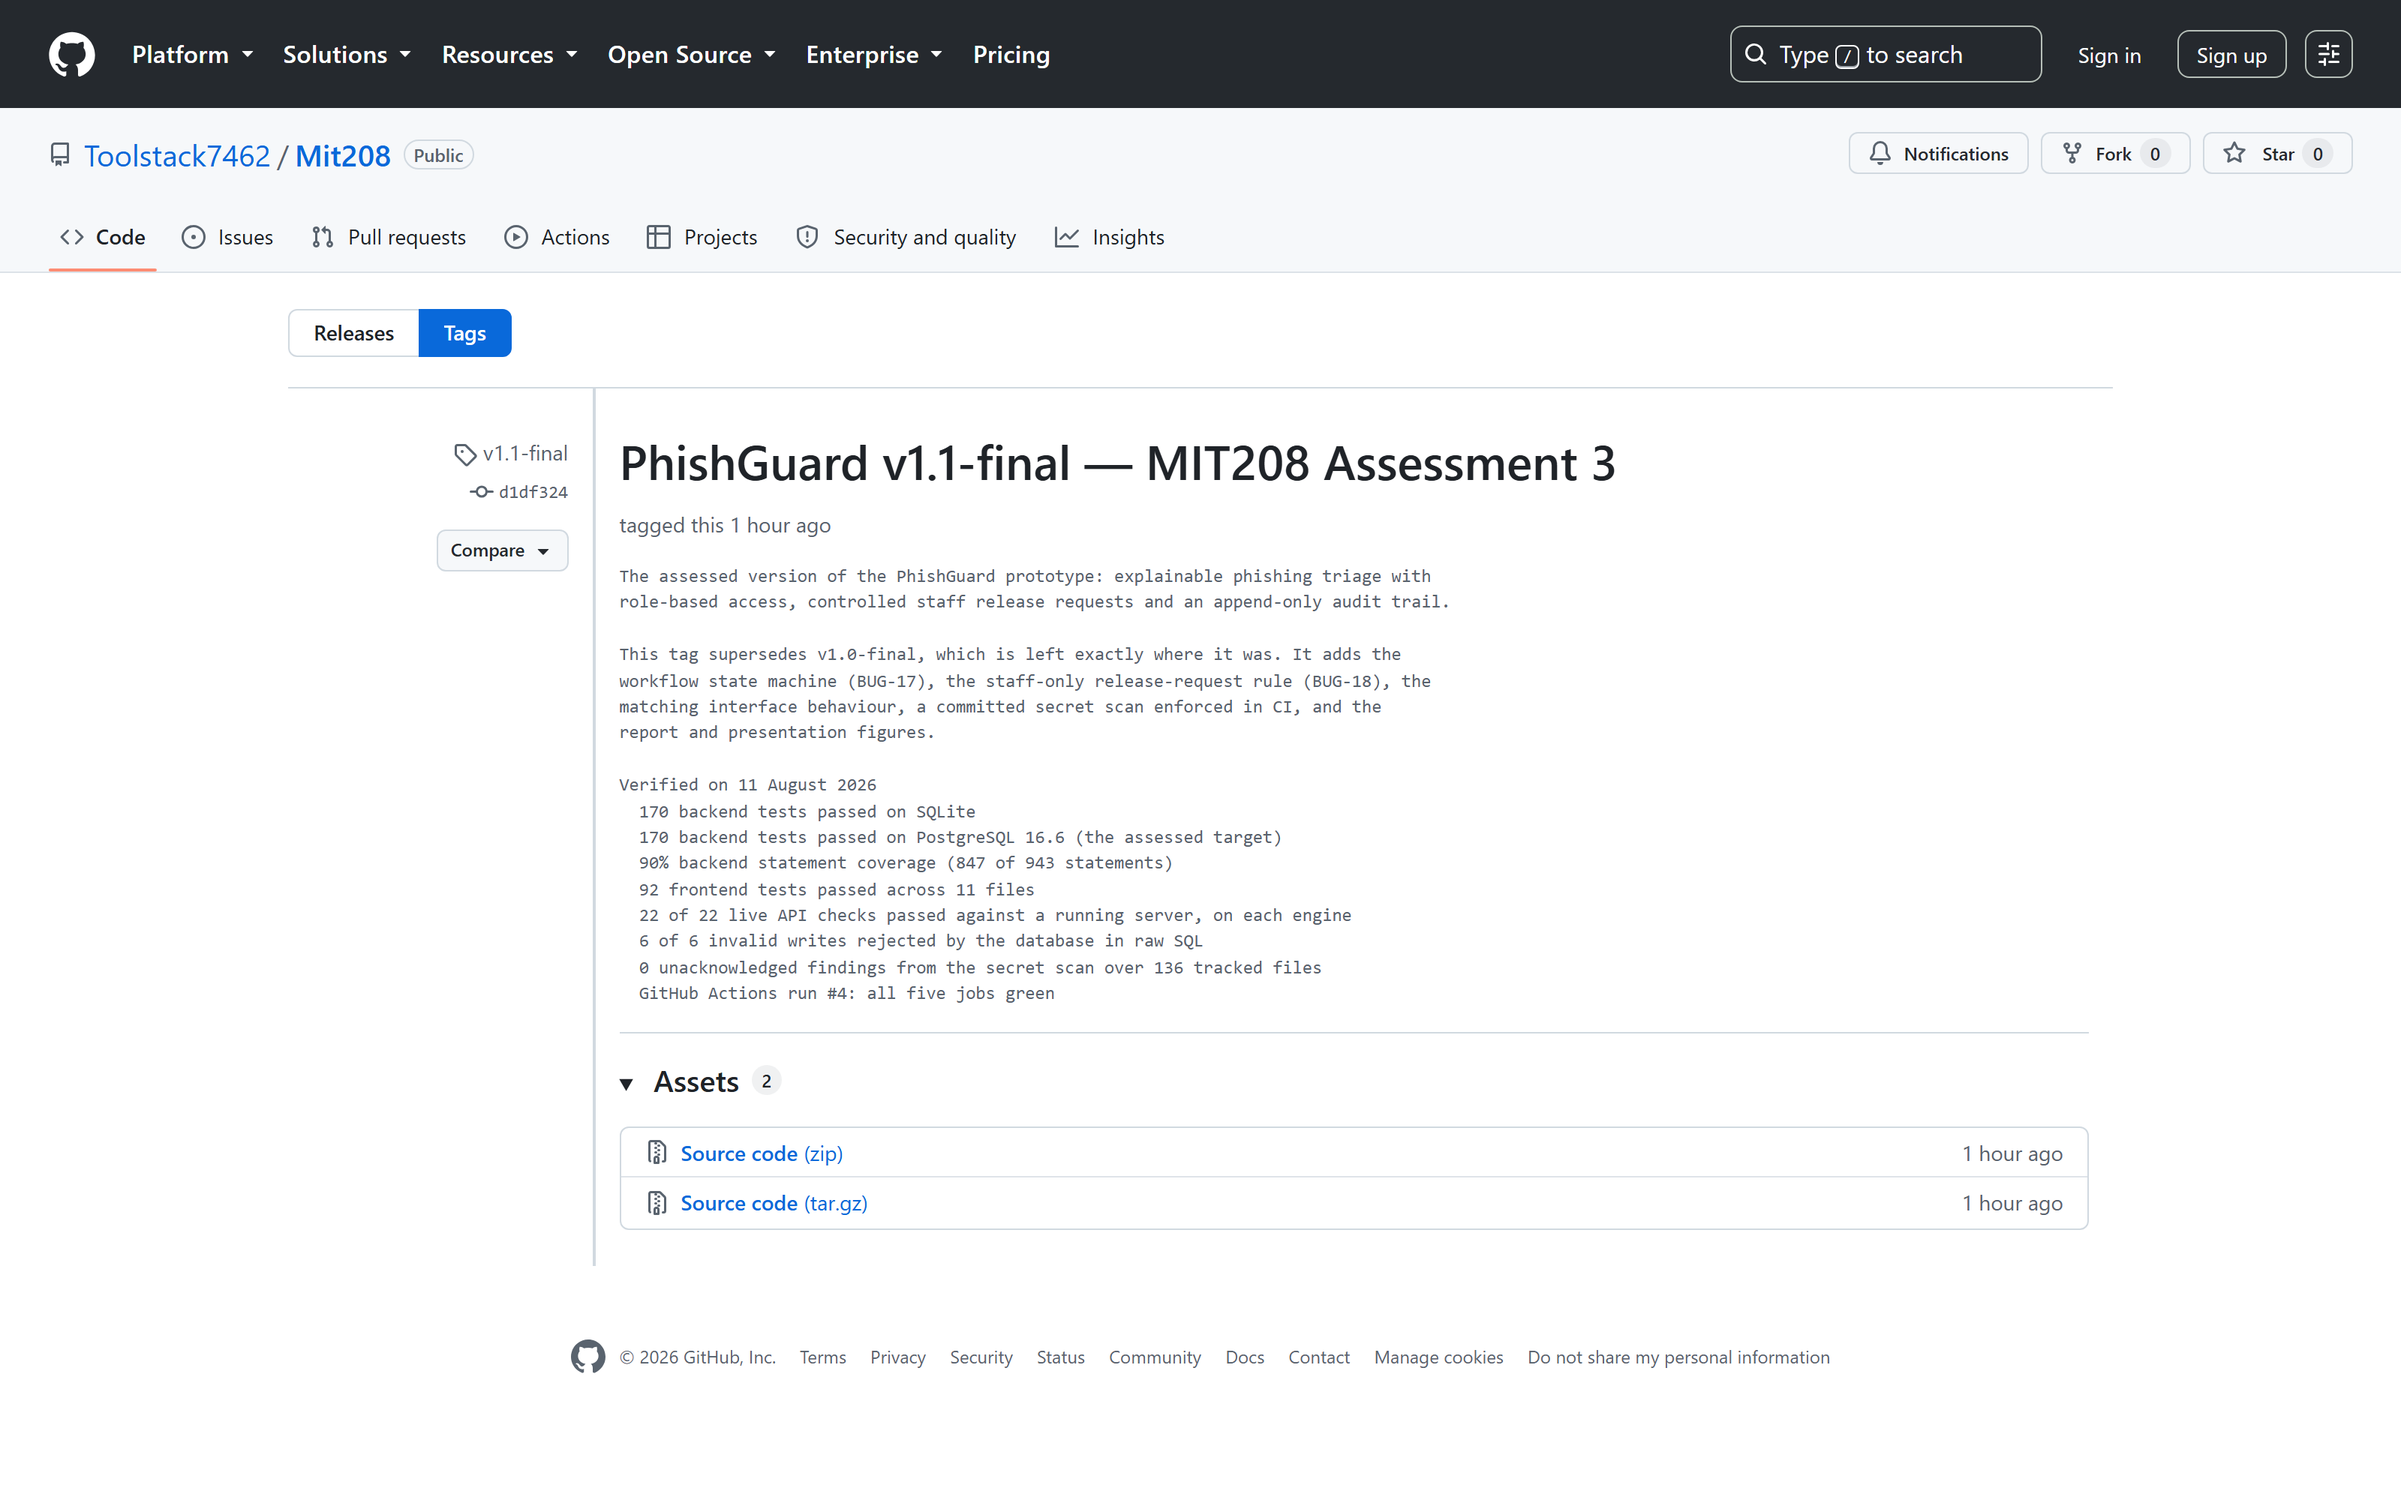
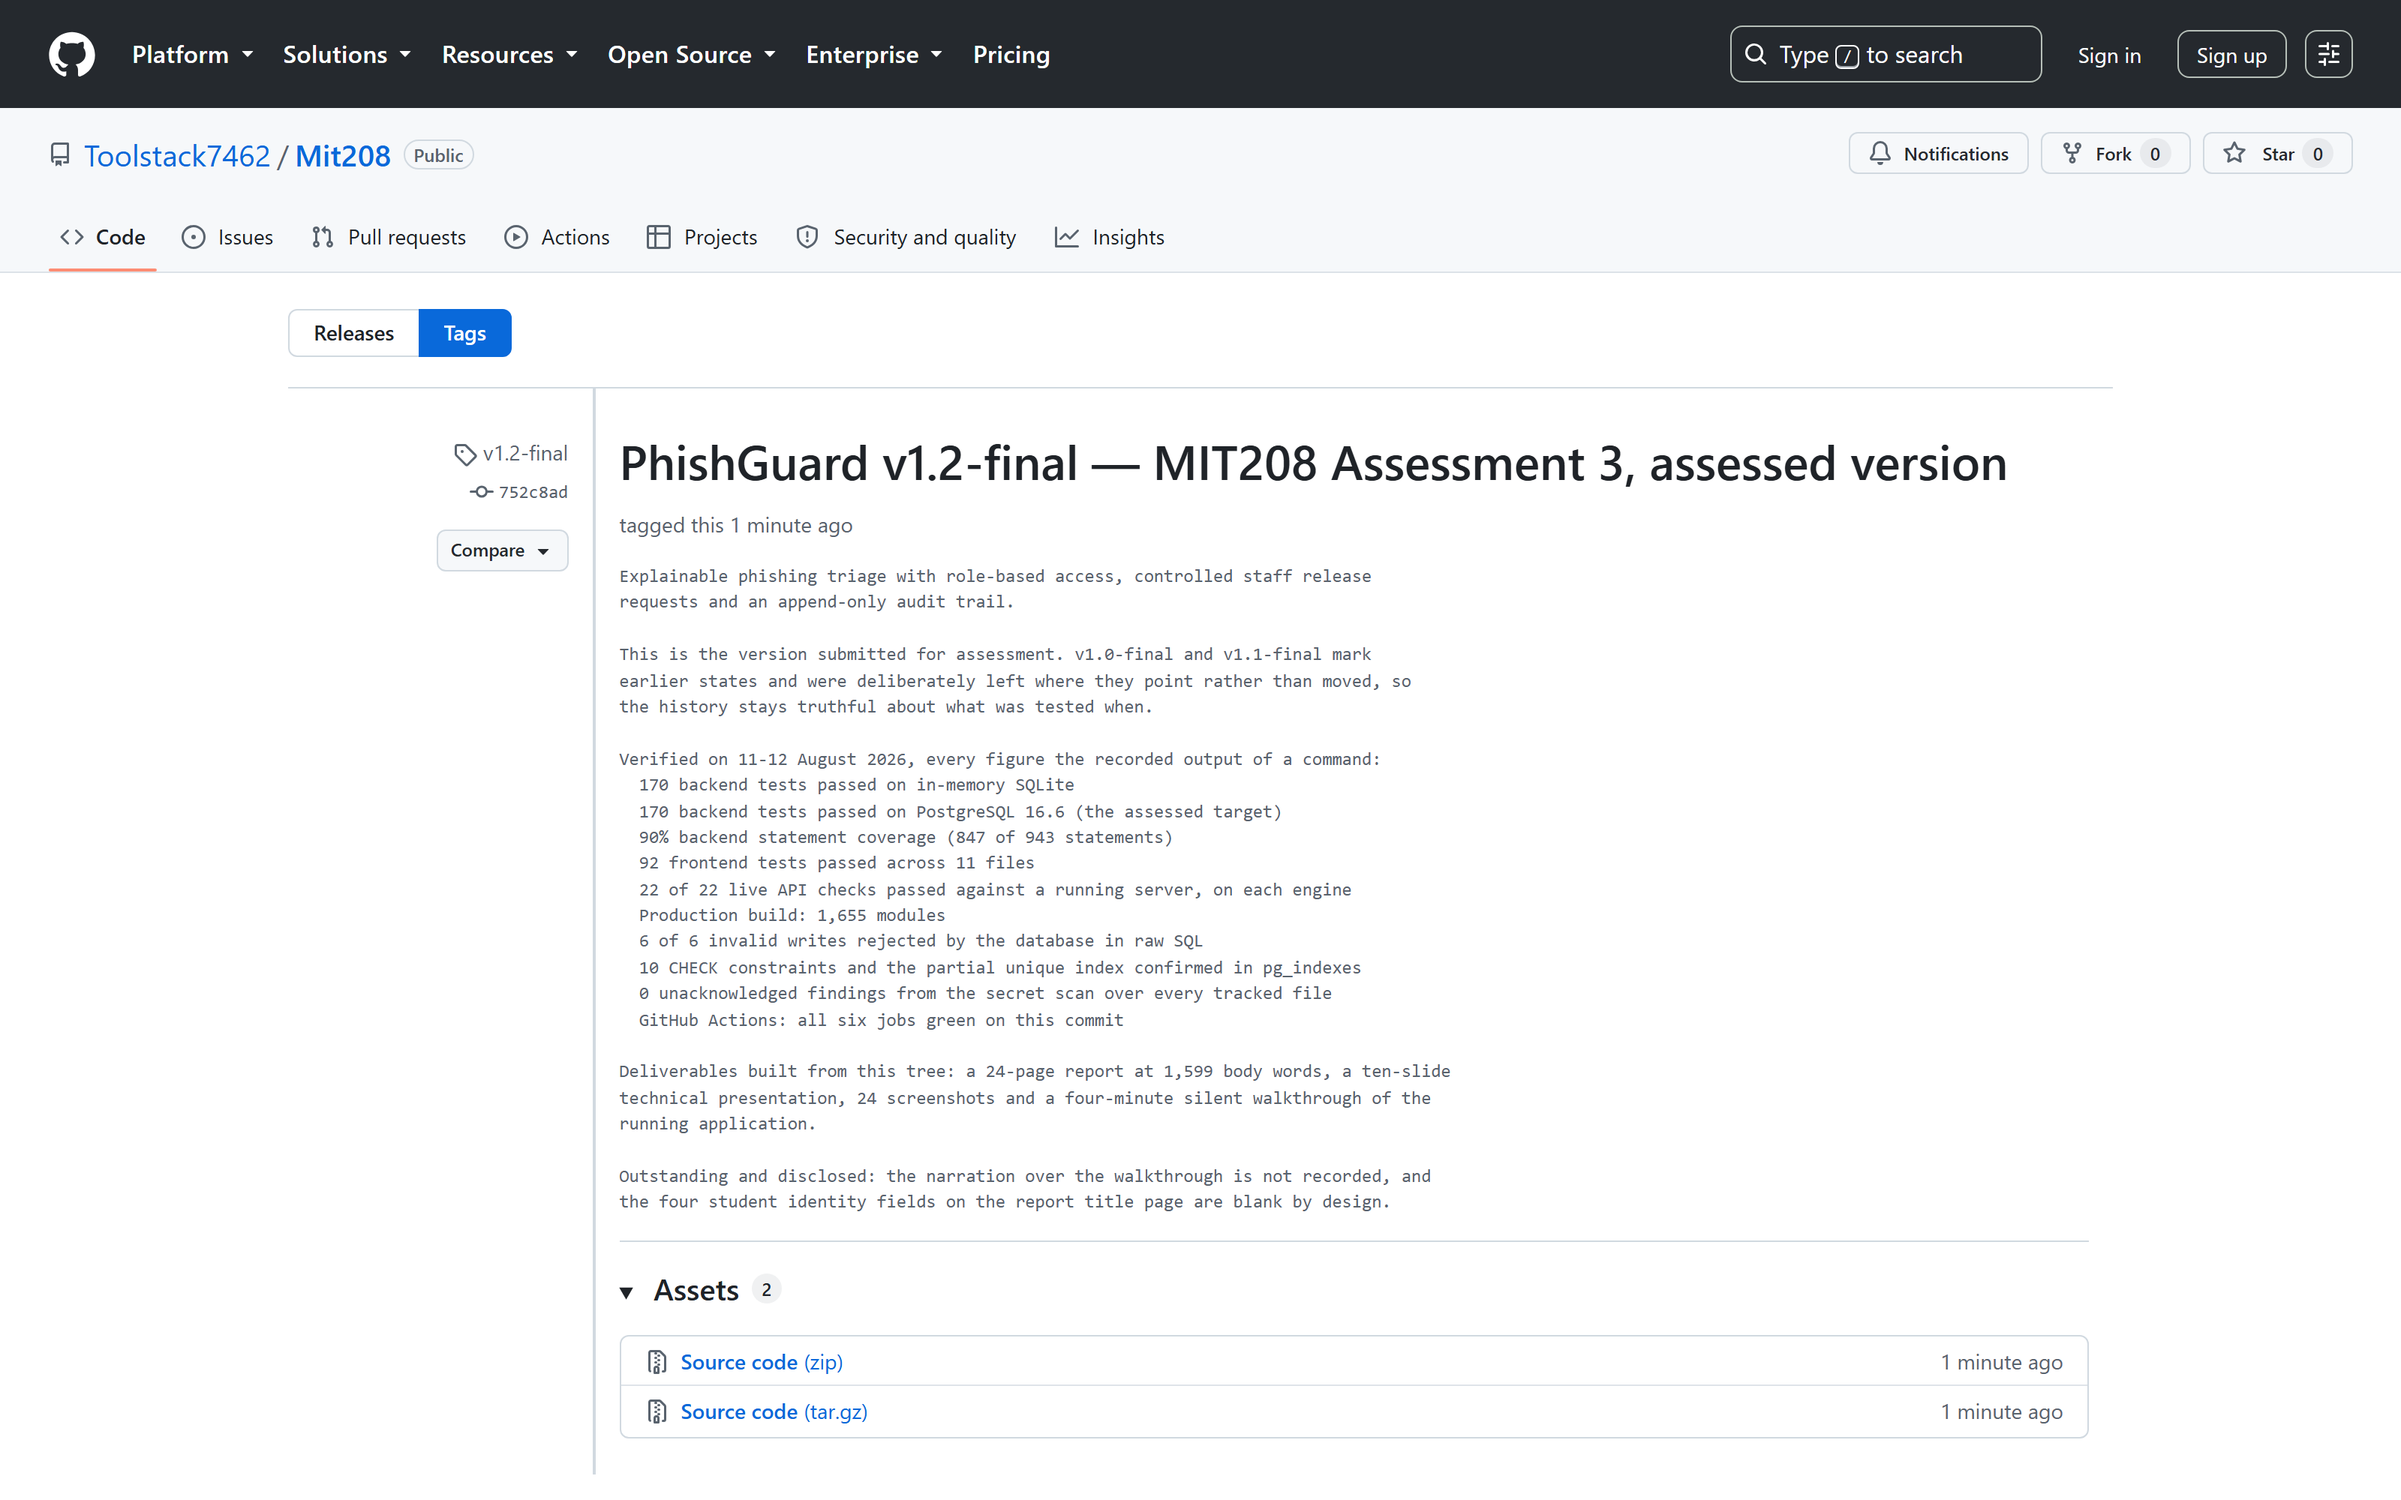
Record the CI and tag evidence captured from v1.2-final
The only commit that follows the assessed tag, and it contains nothing but evidence
of that tag: the GitHub Actions run page, the tag page, and the JSON record the
report's Appendix E is generated from. Evidence captured from a tag cannot be
committed before the tag exists, and Appendix E says so rather than leaving a reader
to wonder why the history does not stop at the tag.

Run #8 on commit 752c8ad — the tagged commit — all six jobs green: the Python 3.11,
3.12 and 3.13 matrix, the PostgreSQL job, the secret scan and the frontend build.

diff --git a/evidence/screenshots/INDEX.md b/evidence/screenshots/INDEX.md
@@ -38,9 +38,9 @@ Captured by `evidence/capture_postgres_evidence.py` against the application runn
 
 ## Continuous integration and release evidence
 
-Captured by `evidence/capture_ci_evidence.py`, which reads the run from the GitHub API and refuses to write anything unless it passed. Run #4 on commit d1df324, all 6 jobs green.
+Captured by `evidence/capture_ci_evidence.py`, which reads the run from the GitHub API and refuses to write anything unless it passed. Run #8 on commit 752c8ad, all 6 jobs green.
 
 | File | What it shows |
 |---|---|
-| `23-ci-run-passing.png` | GitHub Actions run #4 on the public repository, every job green |
-| `24-release-tag.png` | The assessed version, tag v1.1-final, on the public repository |
+| `23-ci-run-passing.png` | GitHub Actions run #8 on the public repository, every job green |
+| `24-release-tag.png` | The assessed version, tag v1.2-final, on the public repository |
